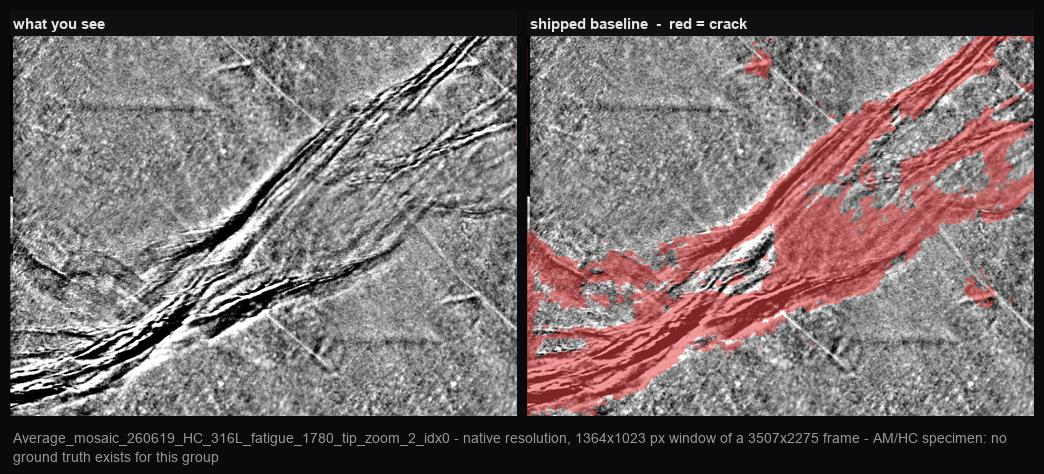
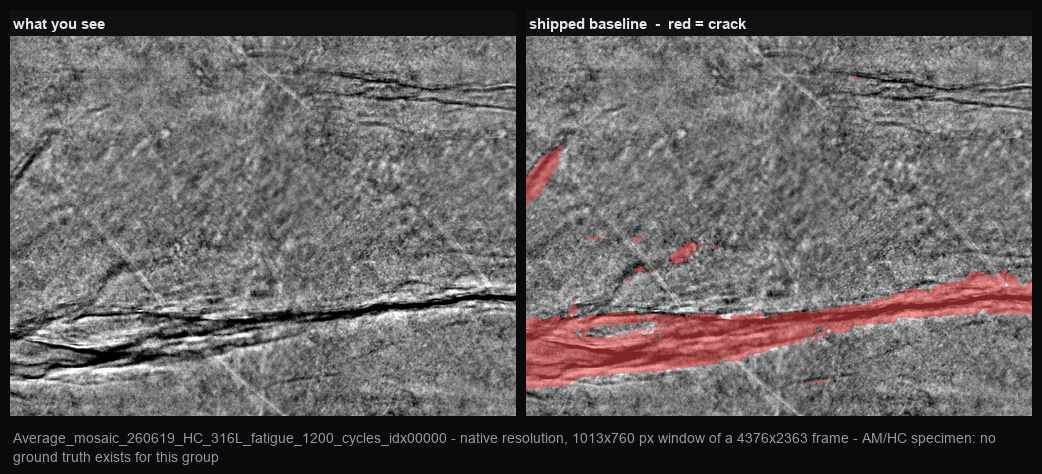
Replace the two weak README figures with ones that show structure
Owner reviewed the four regenerated figures and kept two: ground truth and
preprocessing. The two rejected ones shared a flaw -- the overlay flooded a third
of the frame in flat colour, so there was nothing to look at but a red or cyan
shape. The kept ones show specimen structure with the crack legible inside it.

Detection is now a stretch of the 1200-cycle crack, deliberately NOT the window
the preprocessing figure zooms into: the automatically chosen window contained
that zoom entirely, which would have put the same few hundred pixels in the README
twice. The new window is also more honest than the old one -- it shows the model
tracing the main crack, MISSING the thinner crack across the top, and marking one
elongated pore as crack. The README now names all four of those.

Correction shows the EFFECT of a Flip region click rather than the label. Painting
the not-crack label directly is unreadable here: most not-crack pixels are
imported research negatives covering whole crack-free areas, so every candidate
window came out 56-86% flat cyan. Before/after with a thin cyan outline of what was
removed is what a user actually experiences. The chosen frame is a field of rounded
pores marked as crack, which reads as wrong without needing a caption.

A search for a small, local false-positive correction to feature instead found
exactly ONE in the whole dataset. Worth recording: the labels are almost entirely
[…]

diff --git a/code/make_readme_figures.py b/code/make_readme_figures.py
@@ -55,13 +55,13 @@ DIM = (150, 150, 158)
 # The images each figure is built from. Chosen by --list, which ranks every loaded image
 # on how much of a well-formed crack sits inside a croppable window; these were the top
 # of that ranking, checked by eye afterwards.
-DETECTION_IMAGE = "HC_316L_fatigue_1780_tip_zoom_2"
+DETECTION_IMAGE = "HC_316L_fatigue_1200_cycles"
 PREPROCESS_IMAGE = "HC_316L_fatigue_1200_cycles"
 GT_IMAGE = ("336_25", "b2_336_25")          # (ground-truth stem, app filename fragment)
 # Needs an image carrying BOTH kinds of label, or the figure cannot show what the two
 # colours mean. Ranked by "pixels where a human marked not-crack over model crack":
 # this one has 300 k of those plus 3.8 M confirmed crack.
-CORRECTION_IMAGE = "b2_343_75_LARGE"
+CORRECTION_IMAGE = "HC_316L_fatigue_400_cycles"
 
 # Crops are PINNED, not searched, for the images above. find_crop() picks the window from
 # a model's mask, so the same figure moved when regenerated under a different model --
@@ -69,8 +69,11 @@ CORRECTION_IMAGE = "b2_343_75_LARGE"
 # object; --list plus find_crop() is how these were found, and pinning them is how they
 # stay put. (y, x, h, w) at native resolution.
 CROPS = {
-    "HC_316L_fatigue_1780_tip_zoom_2": (1009, 6, 1023, 1364),
-    "HC_316L_fatigue_1200_cycles": (797, 1014, 519, 692),
+    # detection: a stretch of the 1200-cycle crack DELIBERATELY not the window the
+    # preprocessing figure zooms into -- the auto-chosen one contained that zoom entirely,
+    # so the README showed the same few hundred pixels twice.
+    "detection": (500, 1590, 760, 1013),
+    "HC_316L_fatigue_1200_cycles": (797, 1014, 519, 692),   # preprocessing panel 3
     "b2_336_25": (885, 422, 759, 1012),
 }
 
@@ -243,7 +246,7 @@ def fig_detection(key, label):
     raw = np.asarray(S.load_npy(m["id"], "img.npy", mmap=True))
     prob = prob_of(m["id"], key)
     mask = prob > 0.5
-    y, x, ch, cw = crop_for(DETECTION_IMAGE, mask, raw)
+    y, x, ch, cw = crop_for("detection", mask, raw)
     d, mk = disp[y:y + ch, x:x + cw], mask[y:y + ch, x:x + cw]
     g = as_app_shows(m['id'], d)
     save(strip([("what you see", g),
@@ -305,44 +308,52 @@ def fig_preprocessing(key, label):
 
 
 def fig_correction(key, label):
+    """Before and after one Flip region click.
+
+    Shows the EFFECT, not the label. Painting the not-crack label itself was tried and
+    is unreadable: most of the not-crack pixels here are imported research negatives
+    covering whole crack-free areas, so any window containing them came out 56-86% flat
+    cyan and drowned the picture. What a user actually experiences is red disappearing,
+    so that is what this shows, with a thin cyan outline recording what was removed.
+    """
     m = find_image(CORRECTION_IMAGE)
     corr = S.load_npy(m["id"], "correction.npy", mmap=True)
     if corr is None:
         print("  skipping example_correction.png -- no labels on this image")
         return
+    from skimage import measure, morphology
     corr = np.asarray(corr)
-    disp = np.asarray(S.load_npy(m["id"], "display.npy", mmap=True))
-    raw = np.asarray(S.load_npy(m["id"], "img.npy", mmap=True))
     mask = prob_of(m["id"], key) > 0.5
     if corr.shape != mask.shape:
         print("  skipping example_correction.png -- label/prediction shape mismatch")
         return
+    flip = (corr == 2) & mask
+    if flip.sum() < 5000:
+        print("  skipping example_correction.png -- nothing was flipped off here")
+        return
 
-    # Window showing both colours: overruled false positives AND confirmed crack. Scoring
-    # on the product means a window full of one and none of the other cannot win.
-    over, conf = (corr == 2) & mask, mask & (corr != 2)
-    ds = 16
-    H, W = mask.shape
-    ch = int(min(H, max(240, H * 0.34)))
-    cw = int(min(W, ch * 4 / 3))
-    kh, kw = max(1, ch // ds), max(1, cw // ds)
-    do = ndi.uniform_filter(over[::ds, ::ds].astype(np.float32), (kh, kw), mode="constant")
-    dc = ndi.uniform_filter(conf[::ds, ::ds].astype(np.float32), (kh, kw), mode="constant")
-    cy, cx = np.unravel_index(np.argmax(do * dc), do.shape)
-    y = int(np.clip(cy * ds - ch // 2, 0, H - ch))
-    x = int(np.clip(cx * ds - cw // 2, 0, W - cw))
+    lab = measure.label(flip)
+    top = max(measure.regionprops(lab), key=lambda pr: pr.area)
+    y0, x0, y1, x1 = top.bbox
+    pad = int(0.7 * max(y1 - y0, x1 - x0))
+    y, x = max(0, y0 - pad), max(0, x0 - pad)
+    ch = min(mask.shape[0], y1 + pad) - y
+    cw = min(mask.shape[1], x1 + pad) - x
 
+    disp = np.asarray(S.load_npy(m["id"], "display.npy", mmap=True))
     g = as_app_shows(m["id"], disp[y:y + ch, x:x + cw])
-    mk, ck = mask[y:y + ch, x:x + cw], corr[y:y + ch, x:x + cw]
+    mk = mask[y:y + ch, x:x + cw]
+    fl = lab[y:y + ch, x:x + cw] == top.label
     left = tint(g, mk, CRACK_RGB)
-    right = tint(tint(g, mk & (ck != 2), CRACK_RGB), ck == 2, NOT_RGB)
-    save(strip([(f"{label}, uncorrected", left),
-                ("after correcting  -  red = crack, cyan = marked not-crack", right)],
-               caption=f"{m['filename'][:52]}  -  the cyan areas are places a human "
-                       f"overruled the model with Flip region, one click each: "
-                       f"{int(((corr == 2) & mask).sum()):,} px of predicted crack marked "
-                       f"not-crack across this image. Press Retrain and both colours "
-                       f"become training data."),
+    right = tint(g, mk & ~fl, CRACK_RGB)
+    right[fl ^ morphology.binary_erosion(fl, morphology.disk(3))] = NOT_RGB.astype(np.uint8)
+    save(strip([(f"{label}: this is not a crack", left),
+                ("after one Flip region click", right)],
+               caption=f"{m['filename'][:52]}  -  the model marked a field of rounded "
+                       f"pores as crack. One click on the blob removes all "
+                       f"{int(top.area):,} px of it and records the region as "
+                       f"not-crack (cyan outline), which Retrain then learns from. "
+                       f"Erase would have needed a minute of brushing for the same result."),
          "example_correction.png")
 
 

diff --git a/README.md b/README.md
@@ -45,28 +45,39 @@ model sees are different on purpose. If preprocessing ever fails, the app falls 
 raw and says so in red rather than letting you mark an unprocessed frame believing
 otherwise.
 
-### A crack it finds well
+### What it finds, and what it misses
 
 ![Detection example](docs/img/example_detection.png)
 
-A native-resolution window — 1364×1023 of a 3507×2275 frame — because a hairline crack
-does not survive being downsampled to README width. Left, the image as you see it in the
-app. Right, the shipped baseline's output. It follows the crack's fibrous body and its
-branches, and this is an AM/HC specimen: a group with **no** pixel-level ground truth, so
-nothing about this frame was used to fit or validate the model.
+A native-resolution window — 1013×760 of a 4376×2363 frame — because a hairline crack does
+not survive being downsampled to README width. Left, the image as you see it in the app;
+right, the shipped baseline's output. This is an AM/HC specimen, a group with **no**
+pixel-level ground truth, so nothing about this frame was used to fit or validate the
+model.
 
-It is not tight. The red runs a little wide of the darkest strands and bridges some of the
-gaps between them, and there are a few isolated specks on plain specimen. Correcting that
-is the job the tools below exist for.
+Four things are visible here, and the last two are why the correction tools exist:
+
+1. It follows the main crack closely, including the fine strands that fray off its left end.
+2. It stays off the mottled background texture, which is the failure mode you would expect
+   from a pixel classifier on a noisy frame.
+3. **It misses the thin crack across the top.** That one is shallower and it is not marked
+   at all.
+4. **The isolated red sliver on the left is a false positive** — an elongated pore, not a
+   crack.
 
 ### Correcting it
 
 ![Correction example](docs/img/example_correction.png)
 
-Red is predicted crack, cyan is what a human marked as *not* crack. **Flip region** takes
-a whole connected blob in one click, so a false positive the size of the frame is one
-click rather than a minute of brushing. Press Retrain and those labels become training
-data.
+A different frame, showing the single most useful tool. The model has marked a field of
+rounded pores as crack — a reasonable mistake, since porosity is dark and roughly the
+right scale, and a wrong one. **Flip region** takes the whole connected blob in one click:
+65,181 px removed, the region recorded as not-crack (cyan outline), and Retrain learns
+from it. **Erase** would reach the same result by brushing, which on a blob this size is
+about a minute of work.
+
+The difference between the two is only how you select: Erase is a brush, Flip region is
+one click on a connected component. Both write the same not-crack label.
 
 ### How well does it do, honestly
 
